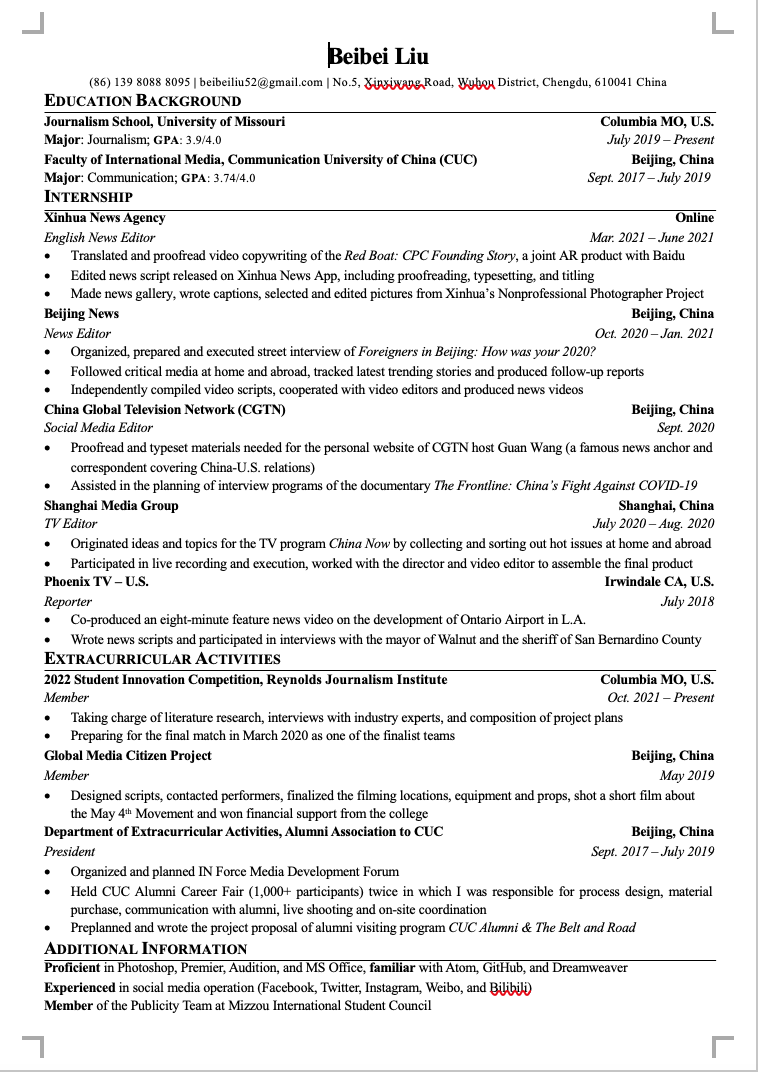
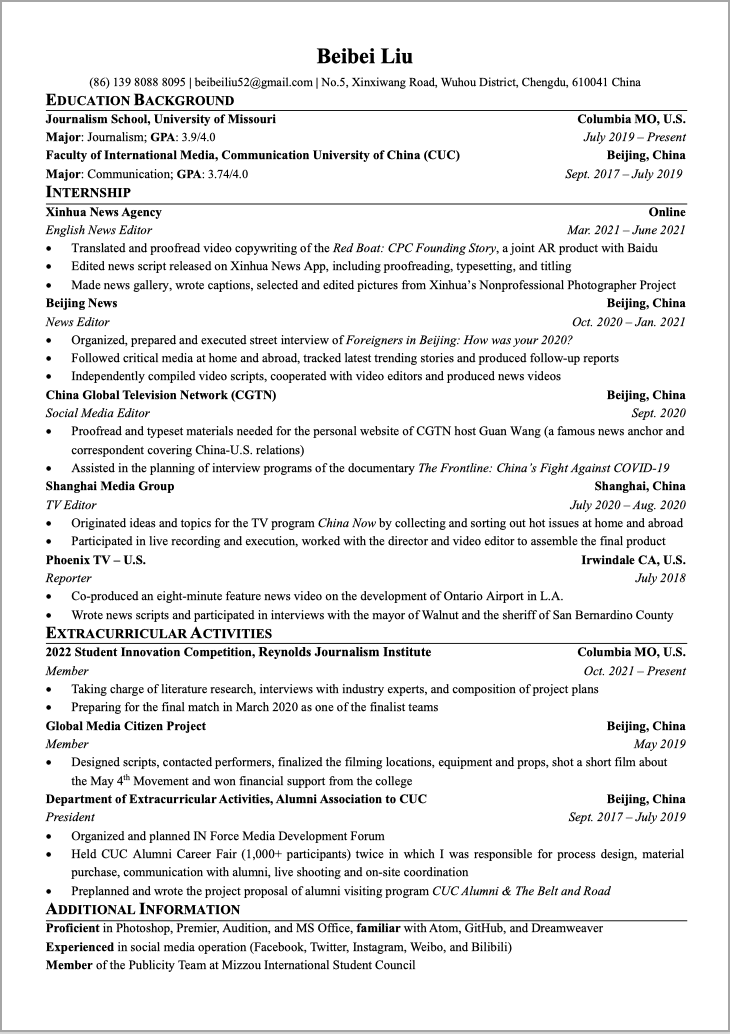
change font

diff --git a/internship.html b/internship.html
@@ -1,11 +1,9 @@
 <!DOCTYPE html>
 <html lang="en">
   <head>
-    <title>Internship</title>
+    <title>Experience</title>
     <link rel="stylesheet" href="style.css">
-    <link href="https://fonts.googleapis.com/css2?family=Glory&family=Roboto+Slab:wght@400;700&family=Source+Sans+Pro:wght@400;600&display=swap" rel="stylesheet">
-    <link href="https://fonts.googleapis.com/css2?family=Lora:wght@500&display=swap" rel="stylesheet">
-  </head>
+<link href="https://fonts.googleapis.com/css2?family=Domine:wght@700&family=Roboto+Condensed&family=Source+Sans+Pro&display=swap" rel="stylesheet">  </head>
   <body>
     <header>
     <nav>
@@ -13,7 +11,7 @@
         <li class="nav-content"><a href="index.html">Home</a></li>
         <li class="nav-content"><a href="written-stories.html">Written Articles</a></li>
         <li class="nav-content"><a href="video-and-audio.html" >Video&Audio</a></li>
-        <li class="nav-content"><a href="internship.html">Internship</a></li>
+        <li class="nav-content"><a href="internship.html">Experience</a></li>
         <li class="nav-content"><a href="resume.html">Resume</a></li>
     </ul>
     <button id="menu_trigger">☰</button>
@@ -21,55 +19,55 @@
     <h1 class="theme">Internship</h1>
   </header>
 <section class="intern-body">
-   <h2 class="intern-title">China News Weekly<h2>
+   <h2 class="intern-title">China News Weekly</h2>
    <p class="intern-author">Reporter<p>
    <p class="intern-author">Online|Sep.2021-now</p>
   <ul class="work-content">
-   <li>Pitch stories independently</li>
-   <li>Independently report stories, including reaching out to sources, collecting documents, doing interviews, and editing videos.</li>
-   <li>Publish works on China News Weekly’s social media account. </li>
+   <li class="mengqi">Pitch stories independently</li>
+   <li class="mengqi">Independently report stories, including reaching out to sources, collecting documents, doing interviews, and editing videos.</li>
+   <li class="mengqi">Publish works on China News Weekly’s social media account. </li>
 </ul>
 
-   <h2 class="intern-title">Xinhua News Agency<h2>
+   <h2 class="intern-title">Xinhua News Agency</h2>
    <p class="intern-author">English News Editor<p>
    <p class="intern-author">Online|Mar.2021-June 2021</p>
    <ul class="work-content">
-   <li>Translated and proofread video copywriting of the Red Boat: CPC Founding Story, a joint AR product with Baidu</li>
-   <li>Edited news script released on Xinhua News App, including proofreading, typesetting, and titling</li>
-   <li>Made news gallery, wrote captions, selected and edited pictures from Xinhua’s Nonprofessional Photographer Project </li>
+   <li class="mengqi">Translated and proofread video copywriting of the Red Boat: CPC Founding Story, a joint AR product with Baidu</li>
+   <li class="mengqi">Edited news script released on Xinhua News App, including proofreading, typesetting, and titling</li>
+   <li class="mengqi">Made news gallery, wrote captions, selected and edited pictures from Xinhua’s Nonprofessional Photographer Project </li>
 </ul>
 
-<h2 class="intern-title">Beijing News<h2>
+<h2 class="intern-title">Beijing News</h2>
 <p class="intern-author">News Editor<p>
 <p class="intern-author">Beijing,China|Oct.2020-Jan.2021</p>
 <ul class="work-content">
-<li>Organized, prepared and executed street interview of Foreigners in Beijing: How was your 2020?</li>
-<li>Followed critical media at home and abroad, tracked latest trending stories and produced follow-up reports</li>
-<li>Independently compiled video scripts, cooperated with video editors and produced news videos</li>
+<li class="mengqi">Organized, prepared and executed street interview of Foreigners in Beijing: How was your 2020?</li>
+<li class="mengqi">Followed critical media at home and abroad, tracked latest trending stories and produced follow-up reports</li>
+<li class="mengqi">Independently compiled video scripts, cooperated with video editors and produced news videos</li>
 </ul>
 
-<h2 class="intern-title">China Global Television Network (CGTN)<h2>
+<h2 class="intern-title">China Global Television Network (CGTN)</h2>
 <p class="intern-author">Social Media Editor<p>
 <p class="intern-author">Beijing,China|Sep.2020</p>
 <ul class="work-content">
-<li>Proofread and typeset materials needed for the personal website of CGTN host Guan Wang (a famous news anchor and correspondent covering China-U.S. relations)</li>
-<li>Assisted in the planning of interview programs of the documentary The Frontline: China’s Fight Against COVID-19</li>
+<li class="mengqi">Proofread and typeset materials needed for the personal website of CGTN host Guan Wang (a famous news anchor and correspondent covering China-U.S. relations)</li>
+<li class="mengqi">Assisted in the planning of interview programs of the documentary The Frontline: China’s Fight Against COVID-19</li>
 </ul>
 
-<h2 class="intern-title">Shanghai Media Group<h2>
+<h2 class="intern-title">Shanghai Media Group</h2>
 <p class="intern-author">TV Editor<p>
 <p class="intern-author">Shanghai,China|June 2020-Aug.2020</p>
 <ul class="work-content">
-<li>Originated ideas and topics for the TV program China Now by collecting and sorting out hot issues at home and abroad</li>
-<li>Participated in live recording and execution, worked with the director and video editor to assemble the final product</li>
+<li class="mengqi">Originated ideas and topics for the TV program China Now by collecting and sorting out hot issues at home and abroad</li>
+<li class="mengqi">Participated in live recording and execution, worked with the director and video editor to assemble the final product</li>
 </ul>
 
-<h2 class="intern-title">Phoenix TV – U.S.<h2>
+<h2 class="intern-title">Phoenix TV – U.S.</h2>
 <p class="intern-author">Reporter<p>
 <p class="intern-author">Irwindale CA|July 2018</p>
 <ul class="work-content">
-<li>Co-produced an eight-minute feature news video on the development of Ontario Airport in L.A.</li>
-<li>Wrote news scripts and participated in interviews with the mayor of Walnut and the sheriff of San Bernardino County</li>
+<li class="mengqi">Co-produced an eight-minute feature news video on the development of Ontario Airport in L.A.</li>
+<li class="mengqi">Wrote news scripts and participated in interviews with the mayor of Walnut and the sheriff of San Bernardino County</li>
 </ul>
 </section>
 

diff --git a/video-and-audio.html b/video-and-audio.html
@@ -3,9 +3,7 @@
   <head>
     <title>Written stories</title>
     <link rel="stylesheet" href="style.css">
-    <link href="https://fonts.googleapis.com/css2?family=Glory&family=Roboto+Slab:wght@400;700&family=Source+Sans+Pro:wght@400;600&display=swap" rel="stylesheet">
-    <link href="https://fonts.googleapis.com/css2?family=Lora:wght@500&display=swap" rel="stylesheet">
-  </head>
+<link href="https://fonts.googleapis.com/css2?family=Domine:wght@700&family=Roboto+Condensed&family=Source+Sans+Pro&display=swap" rel="stylesheet">  </head>
   <body>
     <header>
     <nav>
@@ -13,7 +11,7 @@
         <li class="nav-content"><a href="index.html">Home</a></li>
         <li class="nav-content"><a href="written-stories.html">Written Articles</a></li>
         <li class="nav-content"><a href="video-and-audio.html" >Video&Audio</a></li>
-        <li class="nav-content"><a href="internship.html">Internship</a></li>
+        <li class="nav-content"><a href="internship.html">Experience</a></li>
         <li class="nav-content"><a href="resume.html">Resume</a></li>
     </ul>
     <button id="menu_trigger">☰</button>
@@ -26,29 +24,29 @@
 <iframe width="560" height="315" src="https://www.youtube.com/embed/TFzf6pA--J4" title="YouTube video player" frameborder="0" allow="accelerometer; autoplay; clipboard-write; encrypted-media; gyroscope; picture-in-picture" allowfullscreen></iframe>
    </main>
   <div class="intro-video">
-    <h2 class="text-title">International students’ involvement in the campus during the pandemic</h2>
+    <h2 class="text-title">International Students’ Involvement in Campus During Pandemic</h2>
     <p class="author">By Beibei Liu / Oct.15, 2021</p>
-    <p>The story looks into how international students across Columbia are struggling to get involved at varying degrees, and what is Mizzou/college faculty doing to support international students. We would look at what these students do to build community despite the normal challenges of being an international student in addition to COVID-19.</p>
+    <p class="mengqi">The story looks into how international students across Columbia are struggling to get involved at varying degrees, and what is Mizzou/college faculty doing to support international students. We would look at what these students do to build community despite the normal challenges of being an international student in addition to COVID-19.</p>
   </div>
 
       <main id="video-main">
 <iframe width="560" height="315" frameborder="0" src="https://v.qq.com/txp/iframe/player.html?vid=u3216tlu2p3" allowFullScreen="true"></iframe>
      </main>
     <div class="intro-video">
-      <h2 class="text-title">Foreigners in Beijing: How was your 2020?</h2>
+      <h2 class="text-title">Foreigners in Beijing: How Was Your 2020?</h2>
       <p class="author">By Beibei Liu, Lushuang Hu, Yiru Chen, Yuzhi Wu, Minghui Li, Jinsong Yu / Nov.27, 2020</p>
       <p class="author">Published on Beijing News channel on Tencent Video
-      <p>We interview 19 foreigners in Beijing to talk about their 2020. The year saw the outbreak of COVID-19, the death of Kobe Bryant, the mountain fire in Australia…… It was a crazy year for many people. Foreigners in Beijing witnesses the first outbreak of public health crisis and didn’t come home due to the lockdown. They had a lot to say after going through the year.</p>
+      <p class="mengqi">We interview 19 foreigners in Beijing to talk about their 2020. The year saw the outbreak of COVID-19, the death of Kobe Bryant, the mountain fire in Australia…… It was a crazy year for many people. Foreigners in Beijing witnesses the first outbreak of public health crisis and didn’t come home due to the lockdown. They had a lot to say after going through the year.</p>
     </div>
 
         <main id="video-main">
     <iframe width="560" height="315" frameborder="0" src="https://www.ixigua.com/iframe/7030428091759460897?autoplay=0" referrerpolicy="unsafe-url" allowfullscreen></iframe>
   </main>
       <div class="intro-video">
-        <h2 class="text-title">Hard to get loan for minority-owned business in Columbia</h2>
+        <h2 class="text-title"> Minority-owned Business in Columbia:Hard to Get Loan</h2>
         <p class="author">By Beibei Liu / Nov.14, 2021</p>
         <p class="author">Published on China News Weekly channel on TouTiao.com</p>
-        <p>The story looks into how international students across Columbia are struggling to get involved at varying degrees, and what is Mizzou/college faculty doing to support international students. We would look at what these students do to build community despite the normal challenges of being an international student in addition to COVID-19.</p>
+        <p class="mengqi">The story looks into how international students across Columbia are struggling to get involved at varying degrees, and what is Mizzou/college faculty doing to support international students. We would look at what these students do to build community despite the normal challenges of being an international student in addition to COVID-19.</p>
       </div>
 
 
@@ -56,8 +54,8 @@
      <div class="intro-video">
       <h2 class="text-title">Health Eating in Columbia</h2>
       <p class="author">By Beibei Liu, Sydney Marino, Makalah Hardy, Kate Lewis / December,2019</p>
-      <p class="author">The full story is <a href="https://mghkr9.wixsite.com/j2150finalproject">here</a></p>
-      <p>You can see the lack of care for healthier options in our world today while communities build more fast food places and less farmers markets or organic restaurants. People have gotten the healthier way of life wrong and need to start understanding that eating healthier is a lifestyle choice that everyone, no matter their financial state, can make work.</p>
+      <p class="author">The full story is <a class="download" href="https://mghkr9.wixsite.com/j2150finalproject">here</a></p>
+      <p class="mengqi">You can see the lack of care for healthier options in our world today while communities build more fast food places and less farmers markets or organic restaurants. People have gotten the healthier way of life wrong and need to start understanding that eating healthier is a lifestyle choice that everyone, no matter their financial state, can make work.</p>
     </div>
   </section>
 

diff --git a/written-stories.html b/written-stories.html
@@ -3,9 +3,7 @@
   <head>
     <title>Written stories</title>
     <link rel="stylesheet" href="style.css">
-    <link href="https://fonts.googleapis.com/css2?family=Glory&family=Roboto+Slab:wght@400;700&family=Source+Sans+Pro:wght@400;600&display=swap" rel="stylesheet">
-    <link href="https://fonts.googleapis.com/css2?family=Lora:wght@500&display=swap" rel="stylesheet">
-  </head>
+<link href="https://fonts.googleapis.com/css2?family=Domine:wght@700&family=Roboto+Condensed&family=Source+Sans+Pro&display=swap" rel="stylesheet">
   <body>
     <header>
     <nav>
@@ -13,7 +11,7 @@
         <li class="nav-content"><a href="index.html">Home</a></li>
         <li class="nav-content"><a href="written-stories.html">Written Articles</a></li>
         <li class="nav-content"><a href="video-and-audio.html" >Video&Audio</a></li>
-        <li class="nav-content"><a href="internship.html">Internship</a></li>
+        <li class="nav-content"><a href="internship.html">Experience</a></li>
         <li class="nav-content"><a href="resume.html">Resume</a></li>
     </ul>
     <button id="menu_trigger">☰</button>
@@ -23,8 +21,8 @@
   <section class="content">
     <h2 class="text-title">Chinese Woman’s Efforts behind Missing Case of Mengqi Ji</h2>
     <p class="author">By Beibei Liu / March 31, 2020<p>
-    <p class="author">Published on the official website of the <a href="https://ifengus.com/a/4886.html">Phoenix North America Chinese Channel</a></P>
-    <p>“It would be difficult for us to move a single step without your help,” said an old man, Mengqi Ji’s father.<br><br>
+    <p class="author">Published on the official website of the <a class="download" href="https://ifengus.com/a/4886.html">Phoenix North America Chinese Channel</a></P>
+    <p class="mengqi">“It would be difficult for us to move a single step without your help,” said an old man, Mengqi Ji’s father.<br><br>
 In the early winter of 2019, the freezing wind in Missouri brought the missing case of Ji to the deadlock. When the one-month efforts turned out to be fruitless, Ji’s father solemnly bowed to the crowd in the prayer vigil for Ji.<br><br>
 Since the missing of Chinese woman Ji, her husband Joseph Elledge has been charged with first-degree murder in the disappearance of Ji and child abuse. However, the cases are still in progress. Ji’s parents and Elledge’s mother both seek the guardianship of their 1-year-old granddaughter, Anna Elledge.<br><br>
 “What we do, God always knows.” The familiar face of a Chinese woman showed up beside Ji’s father, translating his speech to the crowd. She also showed up outside the Boone County courthouse to support Ji’s parents. Dressed in all black with the printed slogan “Justice for Mengqi” on her clothes, she read the petition loudly with the Chinese community.<br><br>

diff --git a/style.css b/style.css
@@ -17,6 +17,7 @@ h1{
   font-size: 4em;
   color:#F5C359;
   text-shadow: 2px 5px 10px #000000;
+  font-family: 'Domine', serif;
 }
 h2{
   font-family:'Glory', sans-serif;
@@ -49,6 +50,7 @@ nav{
   padding: 15px;
   font-size: 1em;
   height:20px;
+  font-family: 'Roboto Condensed', sans-serif;
 }
 .self-intro{
   display: flex
@@ -58,6 +60,7 @@ nav{
   margin-top: 50px;
   font-size: 1em;
   line-height: 3;
+  font-family: 'Source Sans Pro', sans-serif;
 }
 #headshot{
   margin-top: 50px;
@@ -68,16 +71,28 @@ nav{
 }
 .theme{
   text-align: center;
+  font-family: 'Domine', serif;
 }
 .content{
   margin-left: 100px;
   margin-right: 100px;
 }
+.mengqi{
+  font-family: 'Source Sans Pro', sans-serif;
+}
 .text-title{
   text-align: center;
+  font-family: 'Source Sans Pro', sans-serif;
+}
+.intern-title{
+  font-family: 'Source Sans Pro', sans-serif;
 }
 .author{
   text-align: center;
+  font-family: 'Source Sans Pro', sans-serif;
+}
+.intern-author{
+  font-family: 'Source Sans Pro', sans-serif;
 }
 .video{
   display:flex;
@@ -117,6 +132,20 @@ nav{
   margin-left: 100px;
   margin-right: 100px;
 }
+.download{
+  text-align: center;
+  color:orange;
+}
+#resume{
+  display: block;
+  margin-left: auto;
+  margin-right: auto;
+  max-width: 30%;
+}
+footer{
+  margin-top: 100px;
+  font-family: 'Source Sans Pro', sans-serif;
+}
 a{
   text-decoration:none;
   font-weight: bold;
@@ -128,6 +157,10 @@ a:hover{
 }
 #menu_trigger {
   display: none;
+}
+@media (max-width: 938px) {
+.self-intro{
+  flex-flow: column;
 }
 @media (max-width: 600px) {
 .nav-content{

diff --git a/resume.html b/resume.html
@@ -3,9 +3,7 @@
   <head>
     <title>Resume</title>
     <link rel="stylesheet" href="style.css">
-    <link href="https://fonts.googleapis.com/css2?family=Glory&family=Roboto+Slab:wght@400;700&family=Source+Sans+Pro:wght@400;600&display=swap" rel="stylesheet">
-    <link href="https://fonts.googleapis.com/css2?family=Lora:wght@500&display=swap" rel="stylesheet">
-  </head>
+<link href="https://fonts.googleapis.com/css2?family=Domine:wght@700&family=Roboto+Condensed&family=Source+Sans+Pro&display=swap" rel="stylesheet">  </head>
   <body>
     <header>
     <nav>
@@ -13,14 +11,15 @@
         <li class="nav-content"><a href="index.html">Home</a></li>
         <li class="nav-content"><a href="written-stories.html">Written Articles</a></li>
         <li class="nav-content"><a href="video-and-audio.html" >Video&Audio</a></li>
-        <li class="nav-content"><a href="internship.html">Internship</a></li>
+        <li class="nav-content"><a href="internship.html">Experience</a></li>
         <li class="nav-content"><a href="resume.html">Resume</a></li>
     </ul>
     <button id="menu_trigger">☰</button>
     </nav>
-    <h1>Resume</h1>
+    <h1 class="theme">Resume</h1>
   </header>
-
+  <img id="resume" src="resume-cover.png" alt="cover of Beibei's resume">
+  <p class="download">click <a class="download" href="resume.pdf">here</a> to download</p>
   </body>
   <footer>
     <p id="copyright"> Copyright@2021Beibei Liu

diff --git a/index.html b/index.html
@@ -8,9 +8,7 @@
   <meta name="description" content="Beibei Liu's website">
   <meta name="author" content="Beibei Liu">
   <meta name="keywords" content="Beibei Liu, journalism works"/>
-  <link href="https://fonts.googleapis.com/css2?family=Glory&family=Roboto+Slab:wght@400;700&family=Source+Sans+Pro:wght@400;600&display=swap" rel="stylesheet">
-  <link href="https://fonts.googleapis.com/css2?family=Lora:wght@500&display=swap" rel="stylesheet">
-  <link rel="stylesheet" href="style.css">
+<link href="https://fonts.googleapis.com/css2?family=Domine:wght@700&family=Roboto+Condensed&family=Source+Sans+Pro&display=swap" rel="stylesheet">  <link rel="stylesheet" href="style.css">
 </head>
 
 <body>
@@ -21,7 +19,7 @@
       <li class="nav-content"><a href="index.html">Home</a></li>
       <li class="nav-content"><a href="written-stories.html">Written Articles</a></li>
       <li class="nav-content"><a href="video-and-audio.html" >Video&Audio</a></li>
-      <li class="nav-content"><a href="internship.html">Internship</a></li>
+      <li class="nav-content"><a href="internship.html">Experience</a></li>
       <li class="nav-content"><a href="resume.html">Resume</a></li>
   </ul>
   <button id="menu_trigger">☰</button>
